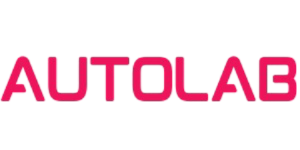
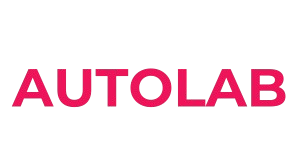
Tela de Login finalizada

Changed region(s): [[0.0, 0.3733, 0.99, 0.72]]

diff --git a/project/interface.py b/project/interface.py
@@ -1,4 +1,4 @@
-# INTERFACE GRÁFICA AUTOBATS
+# FIAP AUTOLAB
 # IMPORTANTE: se você achou este pen drive, NÃO EXECUTE OS COMANDOS, eles servem
 # única e exclusivamente para auxílio de monitores, utilizá-los indevidamente pode acarretar
 # em problemas sérios.
@@ -10,18 +10,27 @@ import os
 from tkinter import Canvas
 from tkinter import PhotoImage
 import customtkinter
+from PIL import Image, ImageTk
 
 customtkinter.set_appearance_mode("dark")
 
 altura = 400
 largura = 655
 
+# Fonte e Cores
+fonte = ("Arial", 18, "bold")
+fonteBotao = ("Arial", 16, "bold")
+cor_fundo = "#ed145b"
+cor_fundo_escuro = "#d01150"
+cor_input = "#242424"
+
+
 # BATS
 def executar_bat_desligar():
     os.system("shutdown.bat")  # Substituir posteriormente pelos caminhos dos bats
 
 
-# TELAS
+# Telas
 def telaPrincipal(nome_usuario):
     """
     --> Função que exibe a tela principal após o login
@@ -36,7 +45,7 @@ def telaPrincipal(nome_usuario):
     alturaTela = janela.winfo_screenheight()
     larguraTela = janela.winfo_screenwidth()
 
-    # Calculando o eixo X e Y para centralizar a janela
+    # Calculando o eixo X e Y pra centralizar a janela
     eixoX = (larguraTela / 2) - (largura / 2)
     eixoY = (alturaTela / 2) - (altura / 2)
 
@@ -48,13 +57,13 @@ def telaPrincipal(nome_usuario):
     janela.maxsize(655, 400)
 
     # Título
-    janela.title("FIAP AutoLab")
+    janela.title("FIAP AUTOLAB")
 
-    # Canvas
+    # Canvas1
     canvas1 = Canvas(janela, width=655, height=400)
     canvas1.pack(fill="both", expand=True)
 
-    # Carregar e exibir imagem de fundo
+    # Imagem de Fundo
     imagemFundo = PhotoImage(file="./assets/fundoFiap.png")
     canvas1.create_image(0, 0, image=imagemFundo, anchor="nw")
 
@@ -62,22 +71,14 @@ def telaPrincipal(nome_usuario):
     logoFiap = PhotoImage(file="./assets/fiapLogo.png")
     canvas1.create_image(410, 67, image=logoFiap)
 
-    # AutoLab
-    autoLab = PhotoImage(file="./assets/autoLAB.png")
-    canvas1.create_image(400, 135, image=autoLab)
-
-    # Cores dos Botões
-    cor_fundo = "#ed145b"
-    cor_fundo_escuro = "#d01150"
-
-    # Fonte
-    fonte = ("Arial", 18, "bold")
+    # Texto AUTOLAB
+    autoLab = PhotoImage(file="assets/autoLAB.png")
+    canvas1.create_image(400, 116, image=autoLab)
 
     # Mensagem de boas-vindas personalizada
-    canvas1.create_text(362, 200, text=f"Bem-vindo,", fill="white", font=("Arial", 20, "bold"))
-    canvas1.create_text(482, 200, text=f"{nome_usuario}!", fill=cor_fundo, font=("Arial", 20, "bold"))
+    canvas1.create_text(400, 180, text=f"Bem-vindo, {nome_usuario}!", fill="white", font=("Arial", 20, "bold"))
 
-    # Botões no Canvas (sem command, por enquanto)
+    # Botões no Canvas (sem o parâmetro "command" pra executar os bats, por enquanto)
     botao_desligar = customtkinter.CTkButton(janela, text="Desligar Lab", width=170, height=40, font=fonte,
                                              fg_color=cor_fundo, hover_color=cor_fundo_escuro)
     botao_reiniciar = customtkinter.CTkButton(janela, text="Reiniciar Lab", width=170, height=40, font=fonte,
@@ -91,32 +92,57 @@ def telaPrincipal(nome_usuario):
     janela.mainloop()
 
 
-# Função para exibir os dados coletados pelo usuário da tela de login
+# Funções
 def verificar_login():
     """
-    --> Função chamada ao clicar no botão de "Entrar" para capturar e validar os dados de login
-    :return: Não possui retorno
+    --> Função chamada ao clicar no botão de "Entrar" para capturar e validar os dados de login (por enquanto, só está printando os valores)
     """
-    nome_usuario = entrada_nome.get().strip().title()  # Pega o nome do campo de entrada
-    login_usuario = entrada_login.get()
-    senha_usuario = entrada_senha.get()
+    # Pegando os valores preenchidos
+    nome_usuario = entrada_nome.get().strip().title()
+    login_usuario = entrada_login.get().strip().lower()
+    senha_usuario = entrada_senha.get().strip()
+    senha_cmd_usuario = entrada_senha_cmd.get().strip()
 
-    # Para este exemplo, vamos apenas imprimir as informações no terminal
+    # Printando no Terminal
     print(f"Nome: {nome_usuario}")
     print(f"Login: {login_usuario}")
     print(f"Senha: {senha_usuario}")
+    print(f"Senha CMD: {senha_cmd_usuario}")
 
-    janela_login.destroy()  # Fecha a janela de login
-    telaPrincipal(nome_usuario)  # Chama a função para mostrar a tela principal com o nome do usuário
+    janela_login.destroy()  # Fecha a janela de login ao final, pra chamar a telaPrincipal
+    telaPrincipal(nome_usuario)  # Chama a função para mostrar a telaPrincipal com o nome do usuário
+
+
+def mostrar_senha_usuario():
+    """
+    --> Função para mostrar e esconder a senha do monitor
+    """
+    if entrada_senha.cget('show') == '*':
+        entrada_senha.configure(show='')  # Mostra a senha
+        botao_mostrar_senha_usuario.configure(image=imagem_olho)  # Altera o ícone para uma imagem de um olho aberto
+    else:
+        entrada_senha.configure(show='*')  # Oculta a senha
+        botao_mostrar_senha_usuario.configure(image=imagem_olho_fechado)  # Altera o ícone para uma imagem de um olho fechado
+
+
+def mostrar_senha_cmd():
+    """
+    --> Mesma lógica da função mostrar_senha_usuario(), porém para mostrar e esconder a senha do campo do CMD
+    """
+    if entrada_senha_cmd.cget('show') == '*':
+        entrada_senha_cmd.configure(show='')  # Mostra a senha
+        botao_mostrar_senha_cmd.configure(image=imagem_olho)  # Altera o ícone para uma imagem de um olho aberto
+    else:
+        entrada_senha_cmd.configure(show='*')  # Oculta a senha
+        botao_mostrar_senha_cmd.configure(image=imagem_olho_fechado)  # Altera o ícone para uma imagem de um olho fechado
 
 
 # Janela de Login
 janela_login = customtkinter.CTk()
 
 janela_login.iconbitmap("./assets/fiap-ico.ico")
-janela_login.geometry("400x300")
-janela_login.minsize(400, 300)  # Garantir tamanho mínimo da janela
-janela_login.title("Login Autobats")
+janela_login.minsize(400, 300)  # Tamanho mínimo pra janela
+janela_login.title("LOGIN")
 
 # Centralizar janela
 alturaTela = janela_login.winfo_screenheight()
@@ -127,27 +153,54 @@ eixoX = (larguraTela / 2) - (largura / 2)
 eixoY = (alturaTela / 2) - (altura / 2)
 
 # Definindo o tamanho e a posição da janela
-janela_login.geometry("{}x{}+{}+{}".format(largura, altura, int(eixoX), int(eixoY)))
+janela_login.geometry(f"{largura}x{altura}+{int(eixoX)}+{int(eixoY)}")
+janela_login.minsize(655, 400)
+janela_login.maxsize(655, 400)
+
+# Canvas
+canvas2 = Canvas(janela_login, width=655, height=400)
+canvas2.pack(fill="both", expand=True)
+
+# Carregando imagens
+imagem_olho = ImageTk.PhotoImage(Image.open("./assets/olho.png").resize((20, 20)))
+imagem_olho_fechado = ImageTk.PhotoImage(Image.open("./assets/olhoFechado.png").resize((20, 20)))
+imagemFundoLogin = PhotoImage(file="assets/fiapFundoLogin.png")
+canvas2.create_image(0, 0, image=imagemFundoLogin, anchor="nw")
 
 # Layout da Tela de Login
-label_bemvindo = customtkinter.CTkLabel(janela_login, text="Bem-vindo! Por favor, faça o login.", font=("Arial", 18, "bold"))
-label_bemvindo.pack(pady=10)
+canvas2.create_text(356, 65, text="Bem-vindo, ", fill="white", font=("Arial", 24, "bold"))
+canvas2.create_text(510, 65, text="Monitor!", fill=cor_fundo, font=("Arial", 24, "bold"))
 
-# Campo Nome
-entrada_nome = customtkinter.CTkEntry(janela_login, placeholder_text="Nome", width=200)
-entrada_nome.pack(pady=10)
+# Nome do Monitor
+canvas2.create_text(256, 111, text="Nome", fill="white", font=("Arial", 14, "bold"))
+entrada_nome = customtkinter.CTkEntry(janela_login, placeholder_text="Insira seu nome...", width=300, fg_color="transparent")
+canvas2.create_window(415, 146, window=entrada_nome)
 
-# Campo Login de Usuário (Runas)
-entrada_login = customtkinter.CTkEntry(janela_login, placeholder_text="Login de Usuário (Runas)", width=200)
-entrada_login.pack(pady=10)
+# Login do Monitor
+canvas2.create_text(347, 186, text="Login de Usuário (Runas)", fill="white", font=("Arial", 14, "bold"))
+entrada_login = customtkinter.CTkEntry(janela_login, placeholder_text="Insira o seu usuário...", width=300, fg_color="transparent")
+canvas2.create_window(415, 221, window=entrada_login)
 
-# Campo Senha de Usuário (Runas)
-entrada_senha = customtkinter.CTkEntry(janela_login, placeholder_text="Senha de Usuário (Runas)", show="*", width=200)
-entrada_senha.pack(pady=10)
+# Senha do Monitor
+canvas2.create_text(348, 264, text="Senha do Monitor (Runas)", fill="white", font=("Arial", 14, "bold"))
+entrada_senha = customtkinter.CTkEntry(janela_login, placeholder_text="Insira sua senha...", show="*", width=300, fg_color="transparent")
+canvas2.create_window(415, 299, window=entrada_senha)
+
+# Botão Mostrar/Ocultar Senha com Ícone
+botao_mostrar_senha_usuario = customtkinter.CTkButton(janela_login, image=imagem_olho_fechado, width=0, height=0, command=mostrar_senha_usuario, text="", hover_color=cor_input, fg_color=cor_input)
+canvas2.create_window(578, 299, window=botao_mostrar_senha_usuario)  # Posição ao lado do campo de senha
+
+# Senha para o CMD
+canvas2.create_text(318, 341, text="Senha para o CMD:", fill="white", font=("Arial", 14, "bold"))
+entrada_senha_cmd = customtkinter.CTkEntry(janela_login, placeholder_text="Insira sua senha para o CMD...", show="*", width=300, fg_color="transparent")
+canvas2.create_window(415, 376, window=entrada_senha_cmd)
+
+botao_mostrar_senha_cmd = customtkinter.CTkButton(janela_login, image=imagem_olho_fechado, width=0, height=0, command=mostrar_senha_cmd, text="", hover_color=cor_input, fg_color=cor_input)
+canvas2.create_window(578, 376, window=botao_mostrar_senha_cmd)  # Posição ao lado do campo de senha
 
 # Botão Entrar
-botao_entrar = customtkinter.CTkButton(janela_login, text="Entrar", width=150, command=verificar_login)
-botao_entrar.pack(pady=20)
+botao_entrar = customtkinter.CTkButton(janela_login, text="Entrar", width=300, height=34, command=verificar_login, fg_color=cor_fundo, font=fonteBotao, hover_color=cor_fundo_escuro)
+canvas2.create_window(415, 431, window=botao_entrar)
 
 # Iniciar o loop da tela de login
 janela_login.mainloop()
